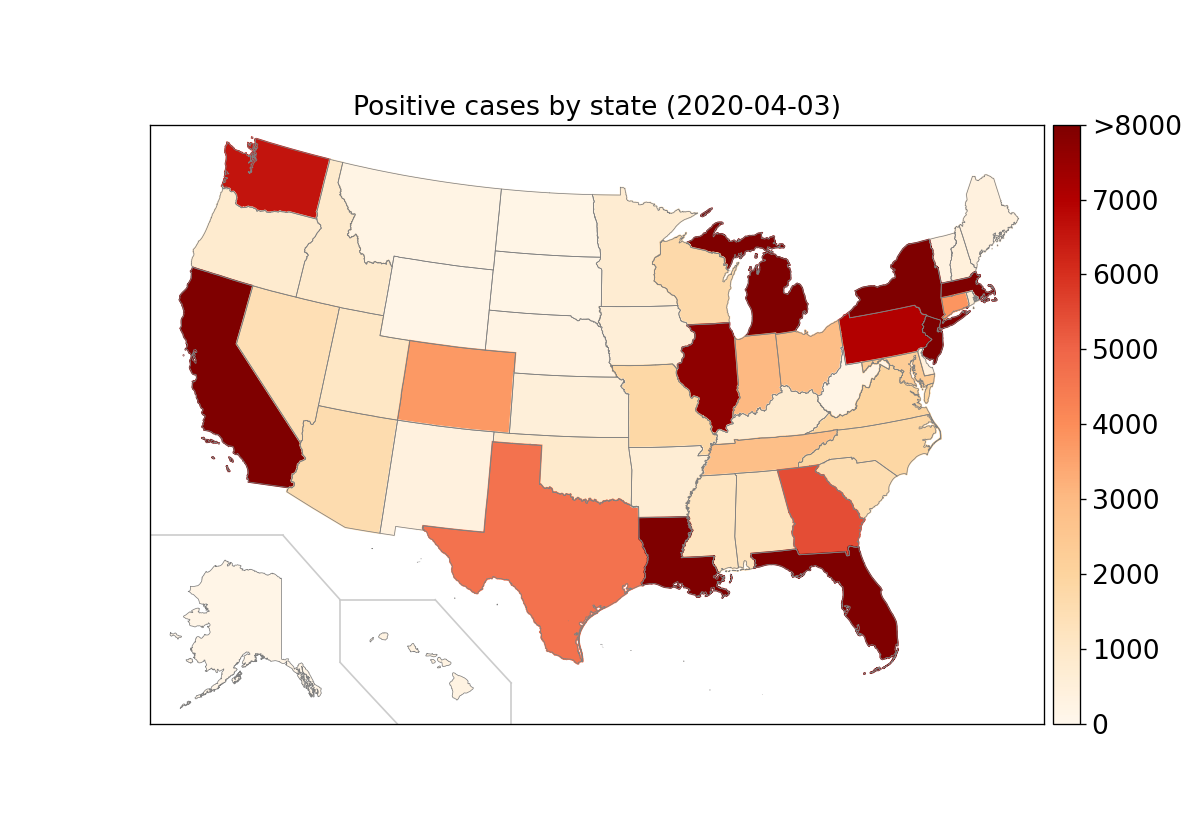
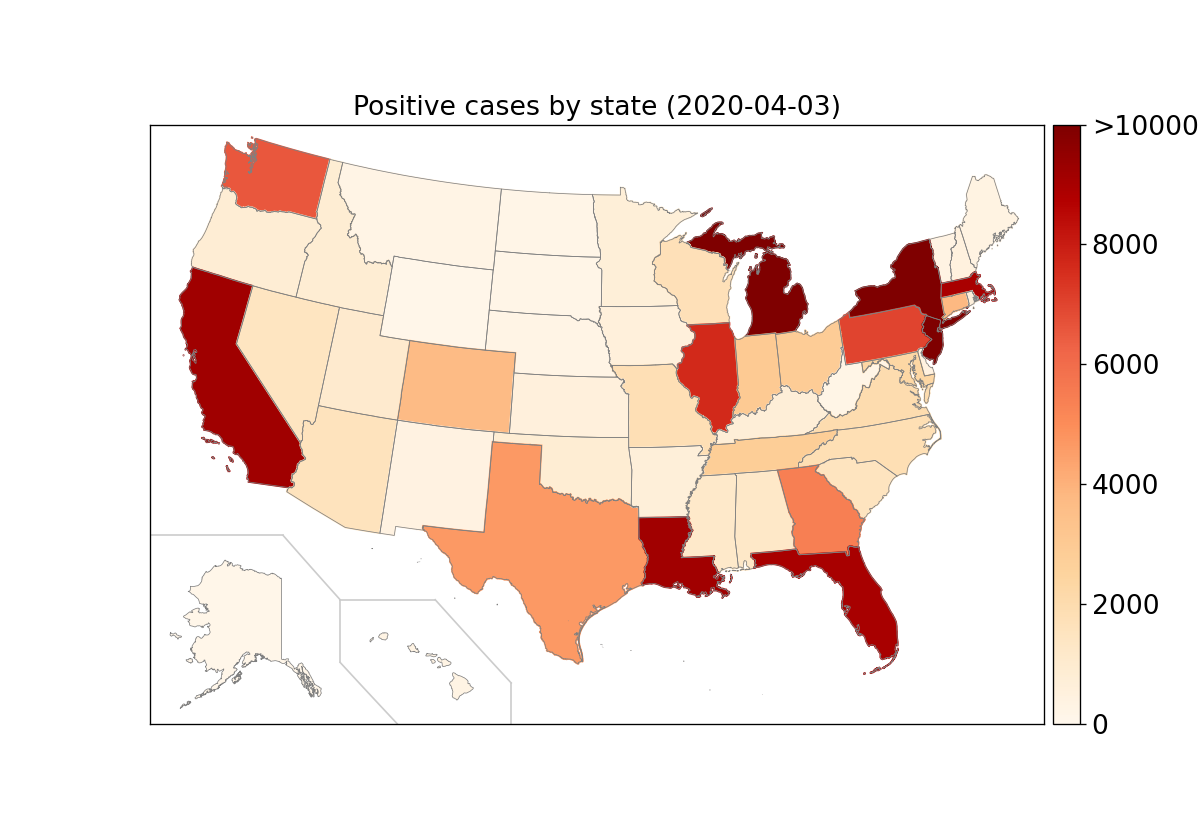
Adjust vmax of total positive map

diff --git a/scripts/Map_current_positive.py b/scripts/Map_current_positive.py
@@ -20,7 +20,7 @@ fig, _ = pu.choropleth_map_state(
     positive,
     map_title=f'Positive cases by state ({today})',
     unit='',
-    vmax=8000,
+    vmax=10000,
     vmin=0,
     dpi=120,
     fontsize=16,
